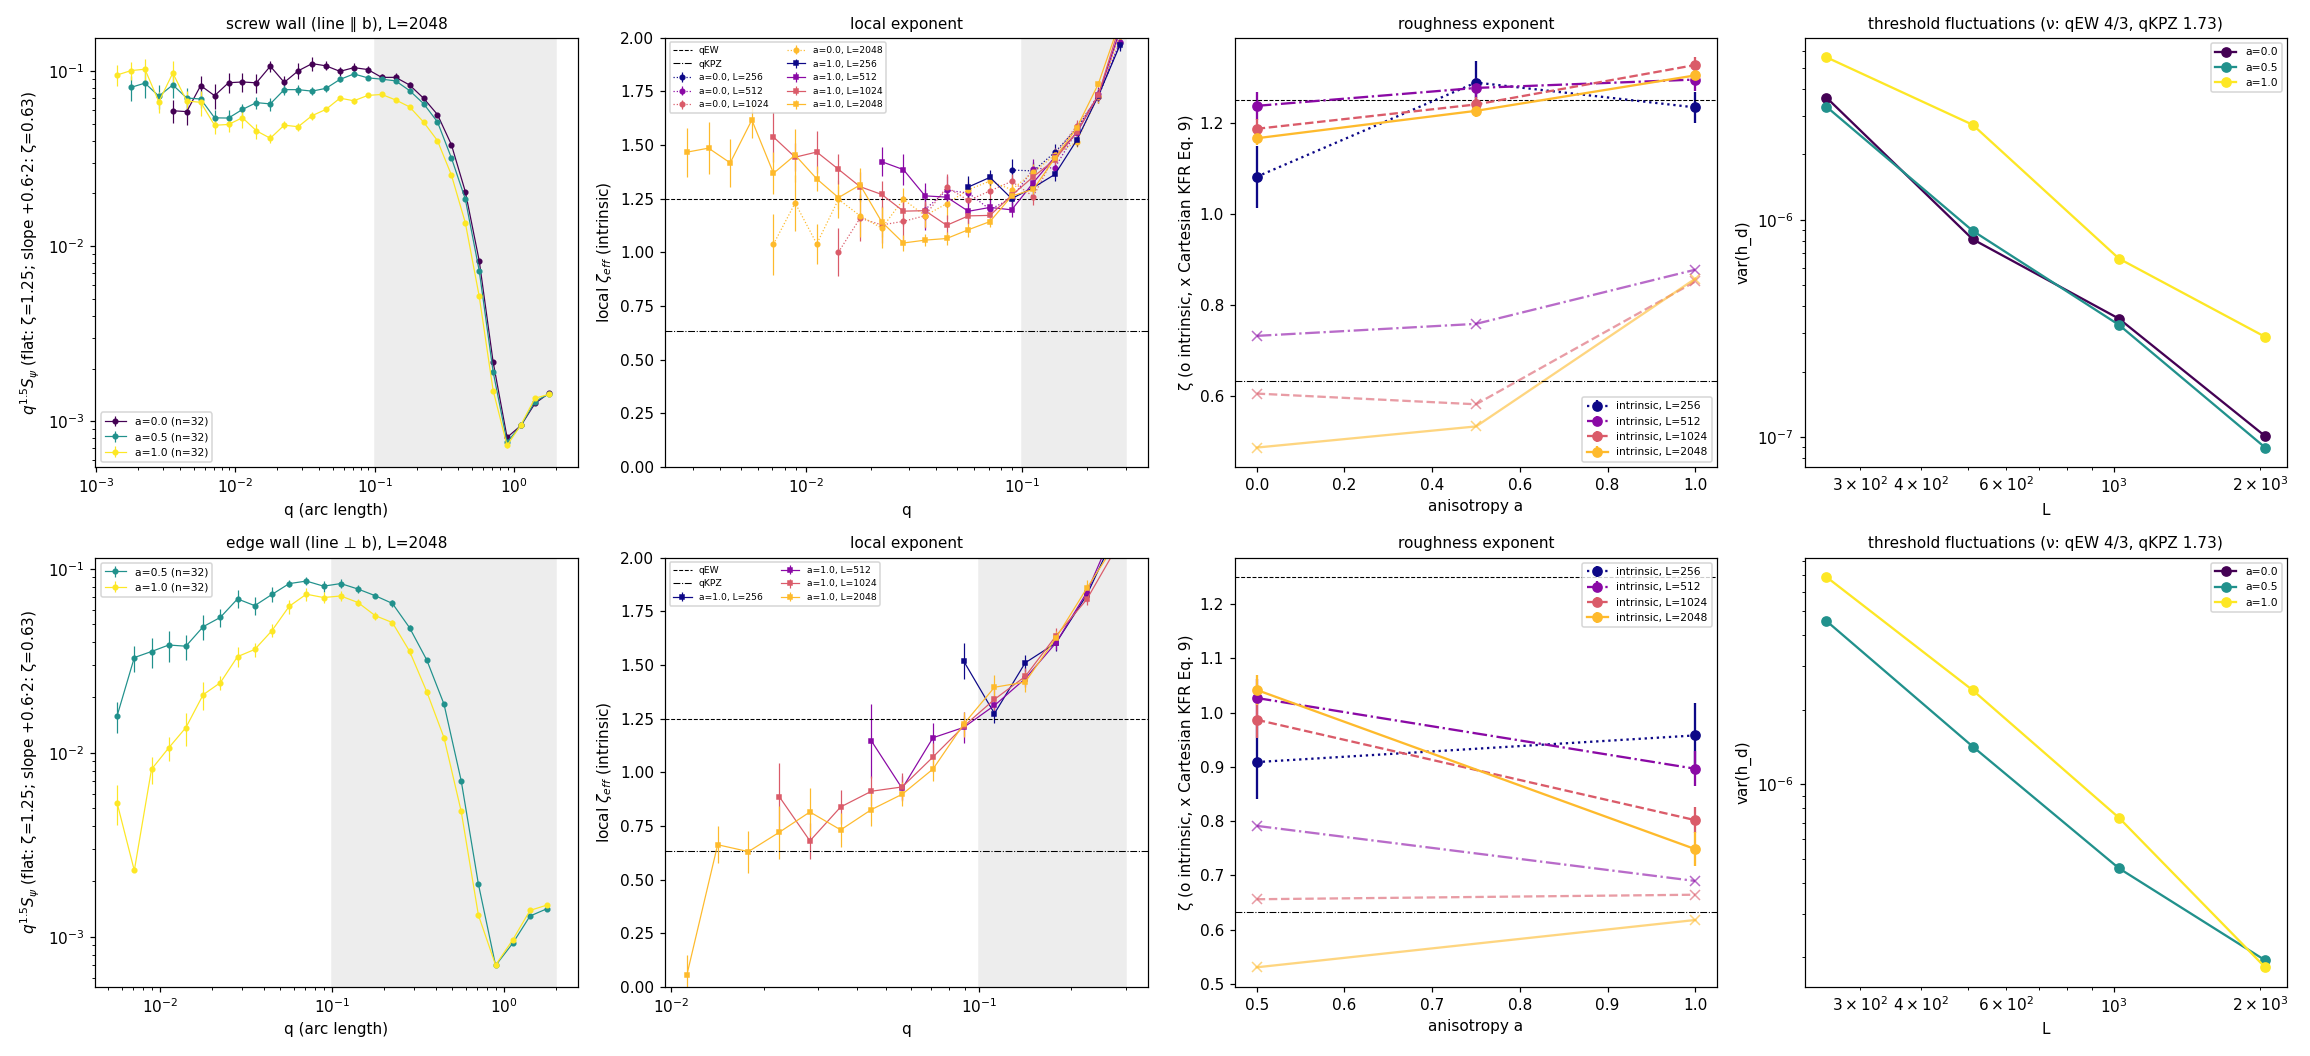
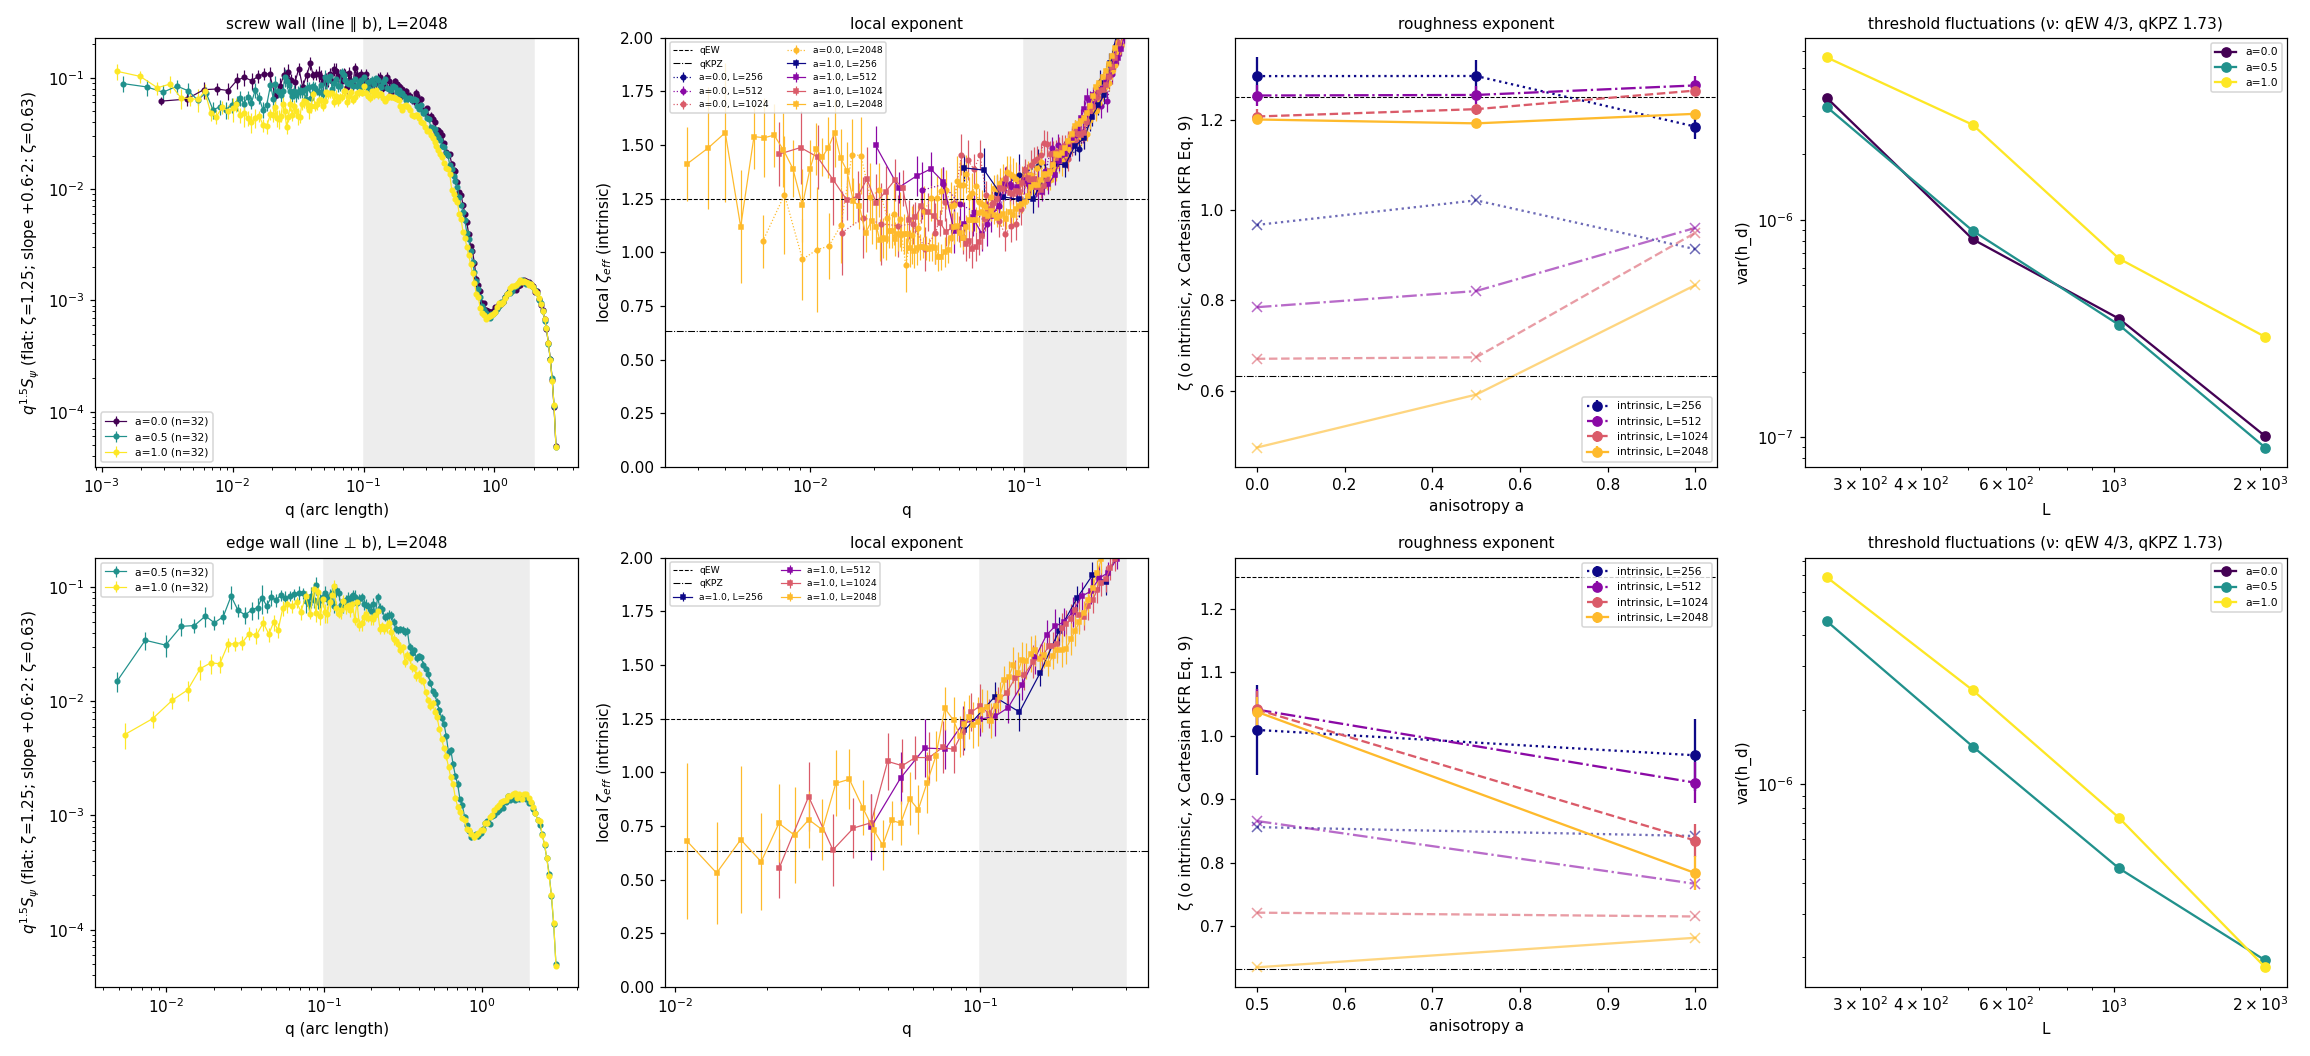
fss_flat: pool the modes of all walls at fixed (L, a) before binning
Bins merged until each holds one mode per wall, weighted fits, bootstrap over
walls with fixed bins. Screw-wall zeta errors drop by 30-45%, L = 256 Cartesian
fits now defined; edge a = 1, L = 2048, q <= 0.03: zeta = 0.65 +- 0.05
(intrinsic) and 0.64 +- 0.06 (Cartesian), qKPZ 0.633.

diff --git a/bubble_sim/fss_flat.py b/bubble_sim/fss_flat.py
@@ -16,9 +16,13 @@ Critical flat walls (fss_scan.py --geometry flat): extraction and analysis.
        (periodic over one period), S_psi(q) = P |c_n|^2 ~ q^(1 - 2 zeta), valid
        through overhangs and for zeta > 1 (as fss_contours.py for bubbles);
      * Cartesian KFR profile: S_u(q) of u(x) ~ q^-(1 + 2 zeta), for comparison;
-     * local zeta_eff(q), zeta fits with bootstrap errors (window 2 pi 2/P .. 0.1:
-       from the second mode of the wall up to the noise core; the periodic walls
-       show no low-mode depletion, zeta is the same from n >= 1 to n >= 8);
+     * spectra pooled at fixed (L, a): the modes n >= 2 of all walls in one array,
+       binned in log q with bins merged until each holds >= one mode per wall
+       (class Pooled); bin position = mean log q of its modes; fits weighted by
+       sqrt(modes per bin), errors by bootstrap over walls with the same bins;
+     * local zeta_eff(q) (sliding factor-2 window), zeta fits (modes n >= 2 up to
+       --qmax, default 0.1, the noise core; the periodic walls show no low-mode
+       depletion, zeta is the same from n >= 1 to n >= 8);
      * memory check: the same, split at the median distance travelled by the
        wall before it got pinned for the last time;
      * h_d: mean and var(h_d) ~ L^(-2/nu) (L >= lmin).
@@ -43,8 +47,6 @@ HERE = os.path.dirname(os.path.abspath(__file__))
 sys.path.insert(0, HERE)
 SCALE = 8
 CFG_RE = re.compile(r"L(\d+)_a([0-9.]+)_s(\d+)\.npz$")
-Q_EDGES = np.geomspace(1e-3, 2.0, 34)
-QC = np.sqrt(Q_EDGES[1:] * Q_EDGES[:-1])
 Q_MAX = 0.1
 N_MIN = 2                      # lowest mode fitted (n = 1, the box-scale mode, left out)
 DS = 0.5
@@ -215,15 +217,6 @@ def plot_walls(sets, outdir, n_show=4):
 # ---------------------------------------------------------------------------
 # spectra
 # ---------------------------------------------------------------------------
-def bin_log(q, S):
-    idx = np.digitize(q, Q_EDGES) - 1
-    ok = (idx >= 0) & (idx < len(QC))
-    s = np.bincount(idx[ok], S[ok], len(QC))
-    c = np.bincount(idx[ok], minlength=len(QC))
-    with np.errstate(invalid="ignore"):
-        return s / c
-
-
 def periodic_resample(curve, L, ds=DS):
     """Uniform arc-length resampling of one period of a wall that repeats with shift (L, 0)."""
     c = np.vstack([curve, curve[:1] + np.array([L, 0.0])])
@@ -236,43 +229,97 @@ def periodic_resample(curve, L, ds=DS):
 
 
 def wall_spectra(curve, u, L, m=2):
+    """Raw spectra of one wall, modes n >= 1 as (q, S, n): the tangent angle psi(s) along
+    the arc length, S = P |c_n|^2, and the KFR profile u(x), S = L |c_n|^2."""
     pts, P = periodic_resample(curve, L)
     n = len(pts)
     ext = np.vstack([pts[-m:] - [L, 0], pts, pts[:m] + [L, 0]])
     d = ext[2 * m:] - ext[:-2 * m]
     psi = np.unwrap(np.arctan2(d[:, 1], d[:, 0]))
-    dpsi = psi - psi.mean()
-    c = np.fft.rfft(dpsi) / n
-    q = 2 * np.pi * np.arange(len(c)) / P
-    Sp = bin_log(q[1:], P * np.abs(c[1:]) ** 2)
+    c = np.fft.rfft(psi - psi.mean()) / n
+    k = np.arange(1, len(c))
+    sp = (2 * np.pi * k / P, P * np.abs(c[1:]) ** 2, k)
     ok = np.isfinite(u)
     uu = np.interp(np.arange(L), np.nonzero(ok)[0], u[ok], period=L) if ok.sum() > 1 else np.zeros(L)
     cu = np.fft.rfft(uu - uu.mean()) / L
-    qu = 2 * np.pi * np.arange(len(cu)) / L
-    Su = bin_log(qu[1:], L * np.abs(cu[1:]) ** 2)
-    return Sp, Su, P
+    ku = np.arange(1, len(cu))
+    su = (2 * np.pi * ku / L, L * np.abs(cu[1:]) ** 2, ku)
+    return sp, su, P
 
 
-def fit(X, qlo, qhi, kind):
-    """Power-law fit of the sample-averaged binned spectrum over qlo <= q <= qhi.
-    Near the lowest modes a log bin can be empty for some walls (their mode
-    spacing 2 pi / P is wider than the bin), so each bin is averaged over the
-    walls that have it, and kept if at least half of them do."""
-    X = np.asarray(X)
-    if len(X) < 4:
-        return np.nan, np.nan
-    ok = (QC >= qlo) & (QC <= qhi) & (np.isfinite(X).sum(0) >= max(2, len(X) / 2))
+FINE = np.geomspace(1e-3, 3.0, 241)
+
+
+class Pooled:
+    """Spectrum of a set of walls at fixed L (and a): the modes n >= N_MIN of all walls in one
+    array, binned in log q. Adjacent fine bins are merged until each holds at least as many
+    modes as there are walls (about one mode per wall), so at low q, where the mode spacing
+    2 pi / P exceeds the bin width, no bin is left to the few walls whose P happens to put a
+    mode there; at high q the bins stay fine and hold many modes. Bin position = mean log q
+    of its modes. Errors: bootstrap over walls with the same bins."""
+
+    def __init__(self, spectra):
+        self.parts = [(q[k >= N_MIN], S[k >= N_MIN]) for q, S, k in spectra]
+        self.n = len(self.parts)
+        if self.n == 0:
+            self.qc = np.zeros(0); return
+        q = np.concatenate([p[0] for p in self.parts])
+        cnt = np.histogram(q, FINE)[0]
+        edges, acc = [FINE[0]], 0
+        for i, ci in enumerate(cnt):
+            acc += ci
+            if acc >= max(self.n, 8):
+                edges.append(FINE[i + 1]); acc = 0
+        if acc and len(edges) > 2:
+            edges[-1] = FINE[-1]
+        self.edges = np.array(edges)
+        i = np.digitize(q, self.edges) - 1
+        ok = (i >= 0) & (i < len(self.edges) - 1)
+        with np.errstate(invalid="ignore"):
+            self.qc = np.exp(np.bincount(i[ok], np.log(q[ok]), len(self.edges) - 1)
+                             / np.bincount(i[ok], minlength=len(self.edges) - 1))
+
+    def mean(self, idx=None):
+        parts = self.parts if idx is None else [self.parts[j] for j in idx]
+        q = np.concatenate([p[0] for p in parts]); S = np.concatenate([p[1] for p in parts])
+        i = np.digitize(q, self.edges) - 1
+        ok = (i >= 0) & (i < len(self.qc))
+        c = np.bincount(i[ok], minlength=len(self.qc))
+        with np.errstate(invalid="ignore", divide="ignore"):
+            return np.bincount(i[ok], S[ok], len(self.qc)) / c, c
+
+    def boot(self, nb):
+        return [self.mean(RNG.integers(0, self.n, self.n)) for _ in range(nb)]
+
+
+def _slope(qc, S, c, ok):
+    ok = ok & (c > 0) & np.isfinite(S) & (S > 0)
     if ok.sum() < 3:
-        return np.nan, np.nan
+        return np.nan
+    return np.polyfit(np.log(qc[ok]), np.log(S[ok]), 1, w=np.sqrt(c[ok]))[0]   # log-mean error ~ 1/sqrt(count)
 
-    def one(Y):
-        m = np.nanmean(Y[:, ok], 0)
-        if not np.all(np.isfinite(m)):
-            return np.nan
-        sl = np.polyfit(np.log(QC[ok]), np.log(m), 1)[0]
-        return (1 - sl) / 2 if kind == "psi" else -(1 + sl) / 2
-    z0 = one(X)
-    return z0, np.nanstd([one(X[RNG.integers(0, len(X), len(X))]) for _ in range(B)], ddof=1)
+
+def _zeta(sl, kind):
+    return (1 - sl) / 2 if kind == "psi" else -(1 + sl) / 2
+
+
+def fit(pool, qhi, kind):
+    """zeta from a weighted power-law fit of the pooled spectrum, modes n >= N_MIN up to qhi."""
+    if pool.n < 4:
+        return np.nan, np.nan
+    win = pool.qc <= qhi
+    z0 = _zeta(_slope(pool.qc, *pool.mean(), win), kind)
+    zb = [_zeta(_slope(pool.qc, S, c, win), kind) for S, c in pool.boot(B)]
+    return z0, np.nanstd(zb, ddof=1)
+
+
+def local_zeta(pool, kind, half=np.log(2) / 2, nb=100):
+    """zeta_eff(q): weighted fits over a sliding window of a factor 2 in q."""
+    lq = np.log(pool.qc)
+
+    def one(S, c):
+        return np.array([_zeta(_slope(pool.qc, S, c, np.abs(lq - l) <= half), "psi") for l in lq])
+    return one(*pool.mean()), np.nanstd([one(S, c) for S, c in pool.boot(nb)], 0)
 
 
 # ---------------------------------------------------------------------------
@@ -288,7 +335,7 @@ def analyse(dirs, outdir, lmin):
         ang = W["burgers_angle"]
         name = {0.0: "screw wall (line ∥ b)", 90.0: "edge wall (line ⊥ b)"}.get(ang, f"b at {ang}°")
         spec = [wall_spectra(c, u, int(L)) for c, u, L in zip(W["curve"], W["u"], W["L"])]
-        W["Sp"] = np.array([s[0] for s in spec]); W["Su"] = np.array([s[1] for s in spec])
+        W["sp"] = [s[0] for s in spec]; W["su"] = [s[1] for s in spec]
         W["P"] = np.array([s[2] for s in spec])
         W["multi"] = np.array([np.mean(m > 1) for m in W["mult"]])
         sets.append((name, W))
@@ -300,19 +347,26 @@ def analyse(dirs, outdir, lmin):
     fig, axs = plt.subplots(len(sets), 4, figsize=(21, 4.8 * len(sets)), squeeze=False)
     for row, (name, W) in enumerate(sets):
         sel = lambda L, a: (W["L"] == L) & (W["aniso"] == a)
+        pools = {}
+
+        def pool(L, a, kind="psi", mask=None):
+            m = sel(L, a) if mask is None else sel(L, a) & mask
+            key = (L, a, kind, None if mask is None else m.tobytes())
+            if key not in pools:
+                pools[key] = Pooled([W["sp" if kind == "psi" else "su"][i] for i in np.nonzero(m)[0]])
+            return pools[key]
         out.append(f"== {name}")
         # compensated intrinsic spectra at the largest L, all a
         ax = axs[row, 0]
         Lm = max(int(L) for L in W["L"])
         for a in As:
-            X = W["Sp"][sel(Lm, a)]
-            if len(X) < 2:
+            pl = pool(Lm, a)
+            if pl.n < 2:
                 continue
-            m = np.nanmean(X, 0); e = np.nanstd(X, 0) / np.sqrt(len(X))
-            Pm = W["P"][sel(Lm, a)].mean()
-            ok = QC > 2 * np.pi * 2 / Pm
-            ax.errorbar(QC[ok], (m * QC ** 1.5)[ok], (e * QC ** 1.5)[ok], fmt="o-", ms=3, lw=0.8,
-                        color=cm.viridis(As.index(a) / max(1, len(As) - 1)), label=f"a={a} (n={len(X)})")
+            m = pl.mean()[0]
+            e = np.nanstd([S for S, _ in pl.boot(100)], 0)
+            ax.errorbar(pl.qc, m * pl.qc ** 1.5, e * pl.qc ** 1.5, fmt="o-", ms=3, lw=0.8,
+                        color=cm.viridis(As.index(a) / max(1, len(As) - 1)), label=f"a={a} (n={pl.n})")
         ax.axvspan(Q_MAX, 2, color="0.93", zorder=-1)
         ax.set_xscale("log"); ax.set_yscale("log"); ax.set_xlabel("q (arc length)")
         ax.set_ylabel(r"$q^{1.5}S_\psi$ (flat: ζ=1.25; slope +0.6·2: ζ=0.63)")
@@ -321,19 +375,12 @@ def analyse(dirs, outdir, lmin):
         ax = axs[row, 1]
         for a, mk in ((As[0], "o"), (As[-1], "s")):
             for L in Ls:
-                X = W["Sp"][sel(L, a)]
-                if len(X) < 4:
+                pl = pool(L, a)
+                if pl.n < 4:
                     continue
-                Pm = W["P"][sel(L, a)].mean()
-                k = 2
-
-                def zl(Y):
-                    lS = np.log(np.nanmean(Y, 0))
-                    return (1 - (lS[2 * k:] - lS[:-2 * k]) / (np.log(QC[2 * k:]) - np.log(QC[:-2 * k]))) / 2
-                z0 = zl(X)
-                ze = np.nanstd([zl(X[RNG.integers(0, len(X), len(X))]) for _ in range(100)], 0)
-                ok = (QC[k:-k] > 2 * np.pi * 4 / Pm) & (QC[k:-k] < 0.3)
-                ax.errorbar(QC[k:-k][ok], z0[ok], ze[ok], fmt=mk + ("-" if a == As[-1] else ":"), color=cL[L],
+                z0, ze = local_zeta(pl, "psi")
+                ok = pl.qc < 0.3
+                ax.errorbar(pl.qc[ok], z0[ok], ze[ok], fmt=mk + ("-" if a == As[-1] else ":"), color=cL[L],
                             ms=3, lw=0.8, label=f"a={a}, L={L}")
         for zz, ls, lab in ((1.25, "--", "qEW"), (0.633, "-.", "qKPZ")):
             ax.axhline(zz, color="k", ls=ls, lw=0.7, label=lab)
@@ -346,18 +393,18 @@ def analyse(dirs, outdir, lmin):
         for L, ls in zip(Ls, (":", "-.", "--", "-")):
             zi, zc = [], []
             for a in As:
-                X = W["Sp"][sel(L, a)]
-                if len(X) < 4:
+                pl = pool(L, a)
+                if pl.n < 4:
                     zi.append((np.nan, np.nan)); zc.append((np.nan, np.nan)); continue
                 Pm = W["P"][sel(L, a)].mean()
-                z1 = fit(X, 2 * np.pi * N_MIN / Pm, Q_MAX, "psi")
-                z2 = fit(W["Su"][sel(L, a)], 2 * np.pi * N_MIN / L, Q_MAX, "u")
-                tr = W["travel"][sel(L, a)]
-                med = np.nanmedian(tr)
-                zlo = fit(X[tr < med], 2 * np.pi * N_MIN / Pm, Q_MAX, "psi")
-                zhi = fit(X[tr >= med], 2 * np.pi * N_MIN / Pm, Q_MAX, "psi")
+                z1 = fit(pl, Q_MAX, "psi")
+                z2 = fit(pool(L, a, "u"), Q_MAX, "u")
+                tr = W["travel"]
+                med = np.nanmedian(tr[sel(L, a)])
+                zlo = fit(pool(L, a, mask=tr < med), Q_MAX, "psi")
+                zhi = fit(pool(L, a, mask=tr >= med), Q_MAX, "psi")
                 zi.append(z1); zc.append(z2)
-                out.append(f"  L={L:5d} a={a:4.2f} n={len(X):4d}: {z1[0]:.3f}±{z1[1]:.3f} | {z2[0]:.3f}±{z2[1]:.3f} "
+                out.append(f"  L={L:5d} a={a:4.2f} n={pl.n:4d}: {z1[0]:.3f}±{z1[1]:.3f} | {z2[0]:.3f}±{z2[1]:.3f} "
                            f"(multi {np.mean(W['multi'][sel(L, a)]):.3f}) | travel<{med:.0f}: {zlo[0]:.3f}±{zlo[1]:.3f}"
                            f"  >: {zhi[0]:.3f}±{zhi[1]:.3f}   P/L={Pm / L:.3f}")
             z, ze = np.array(zi).T
